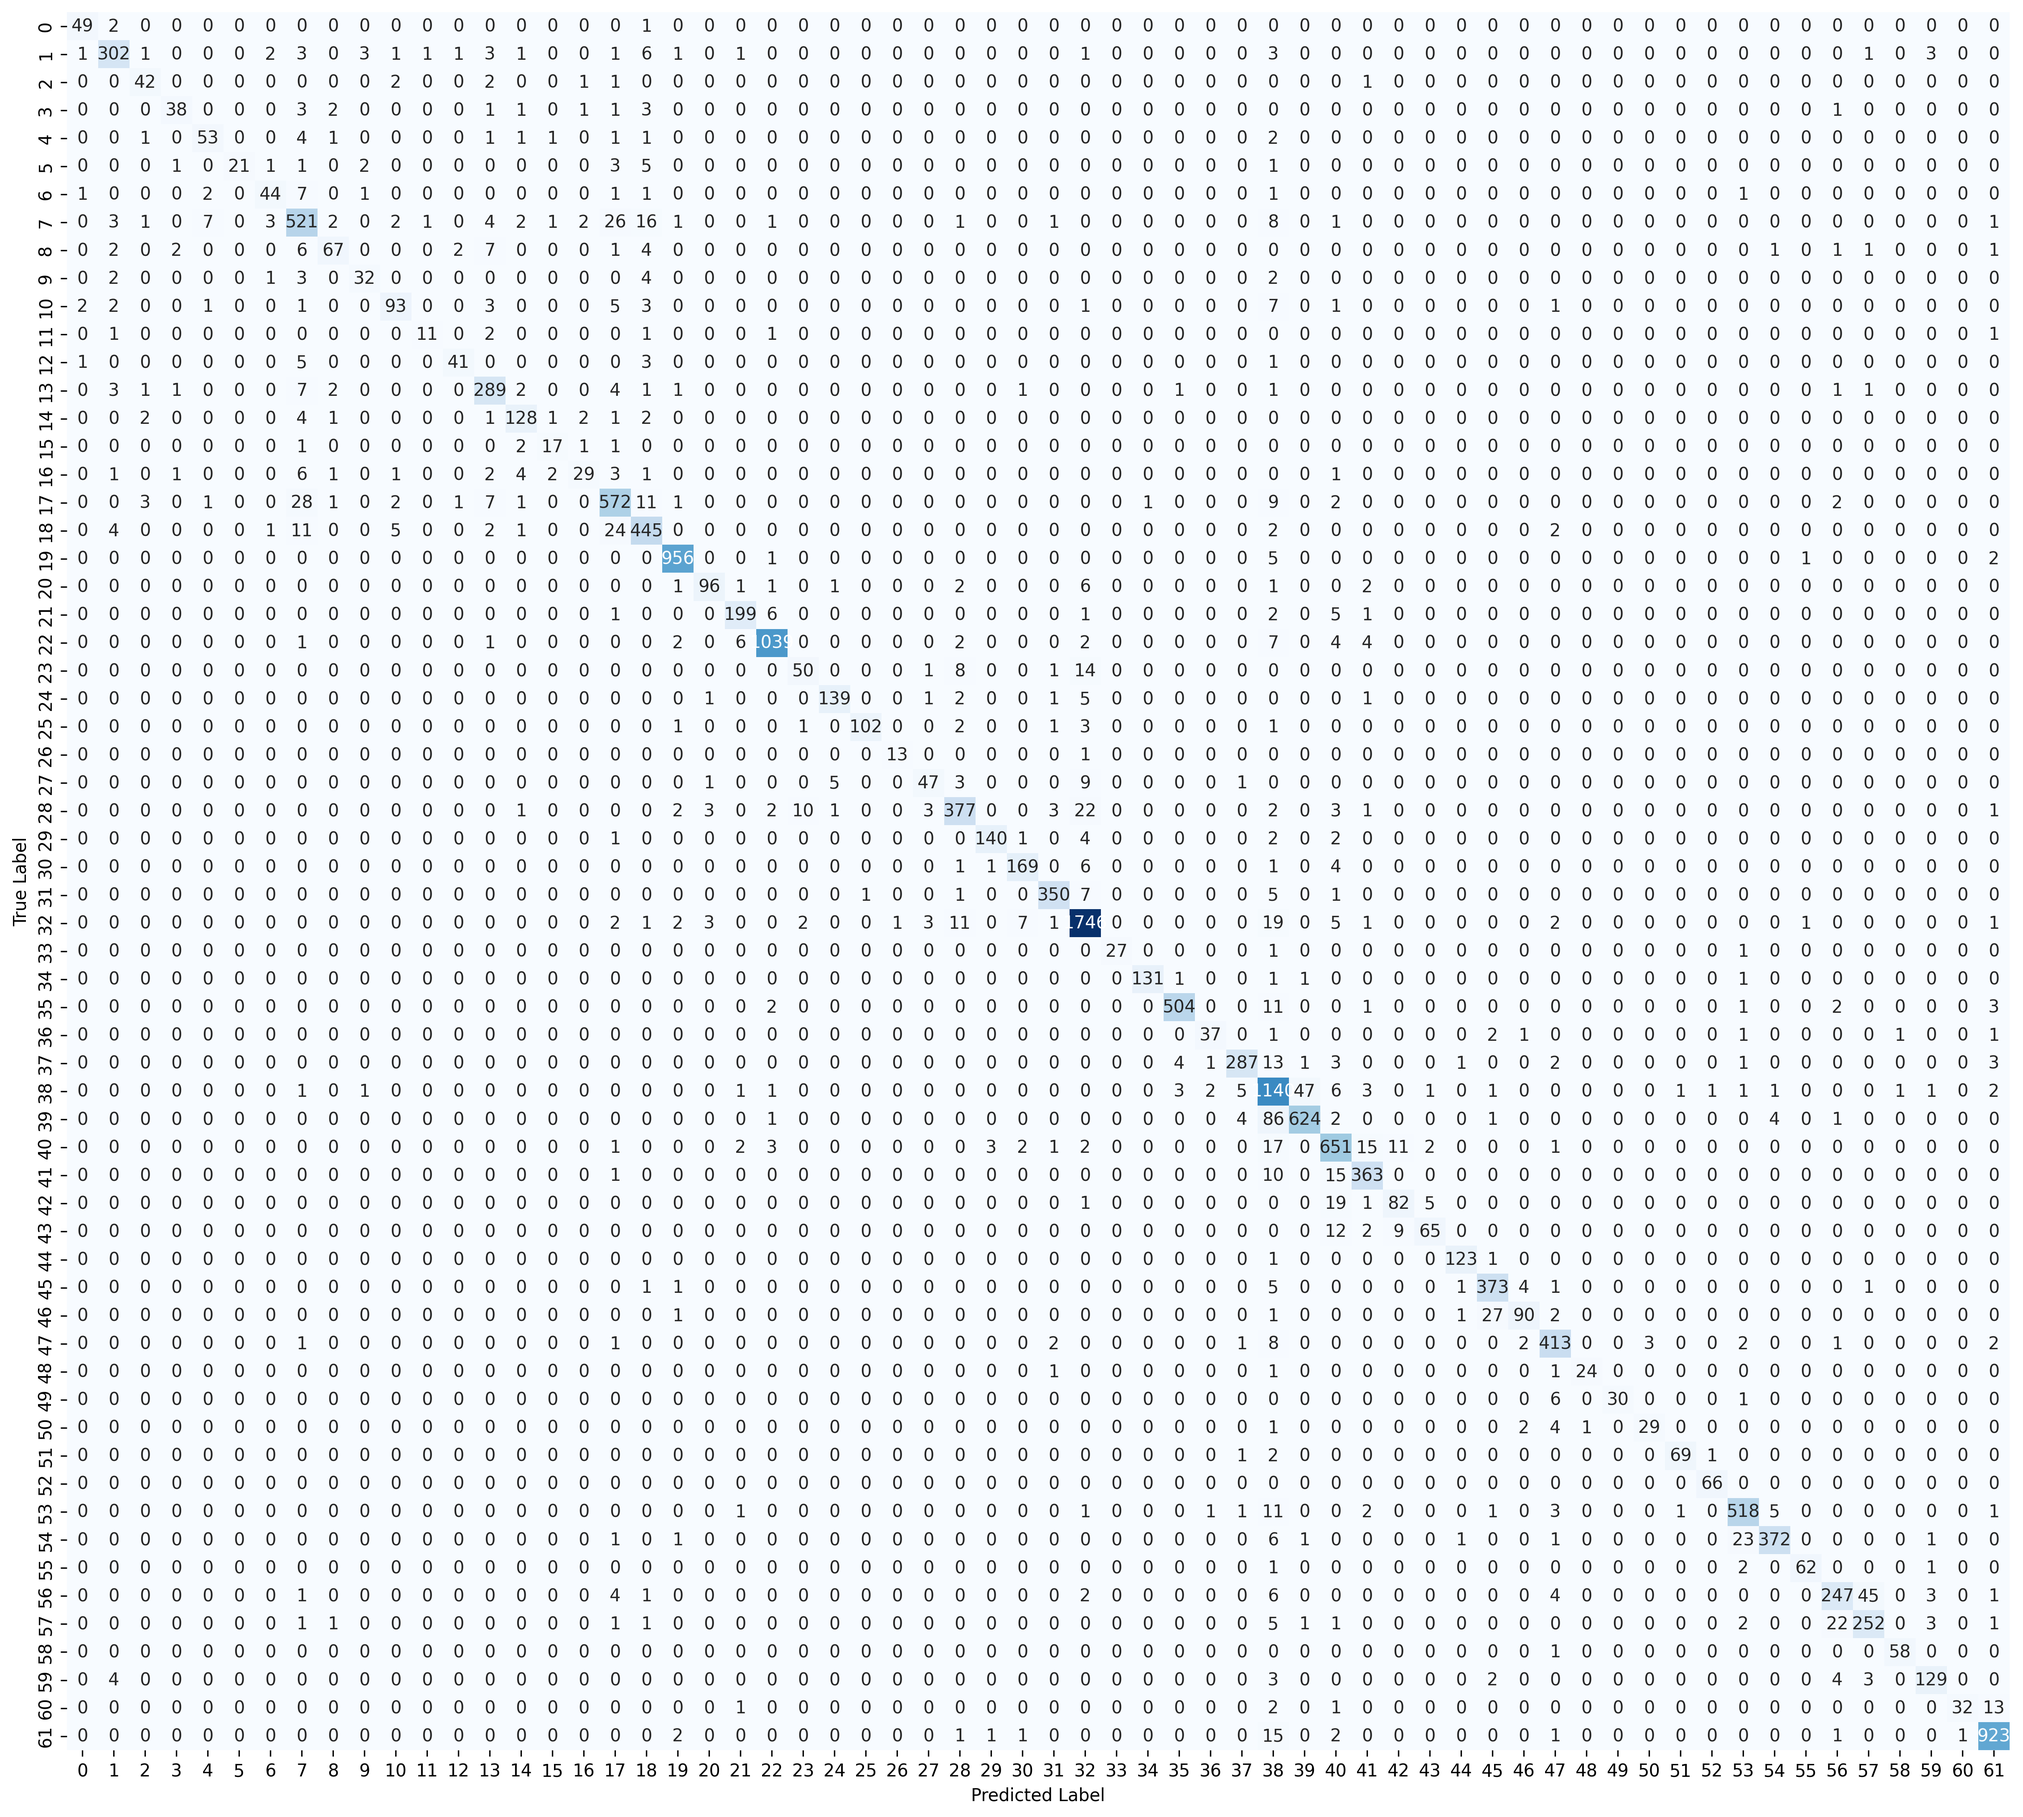
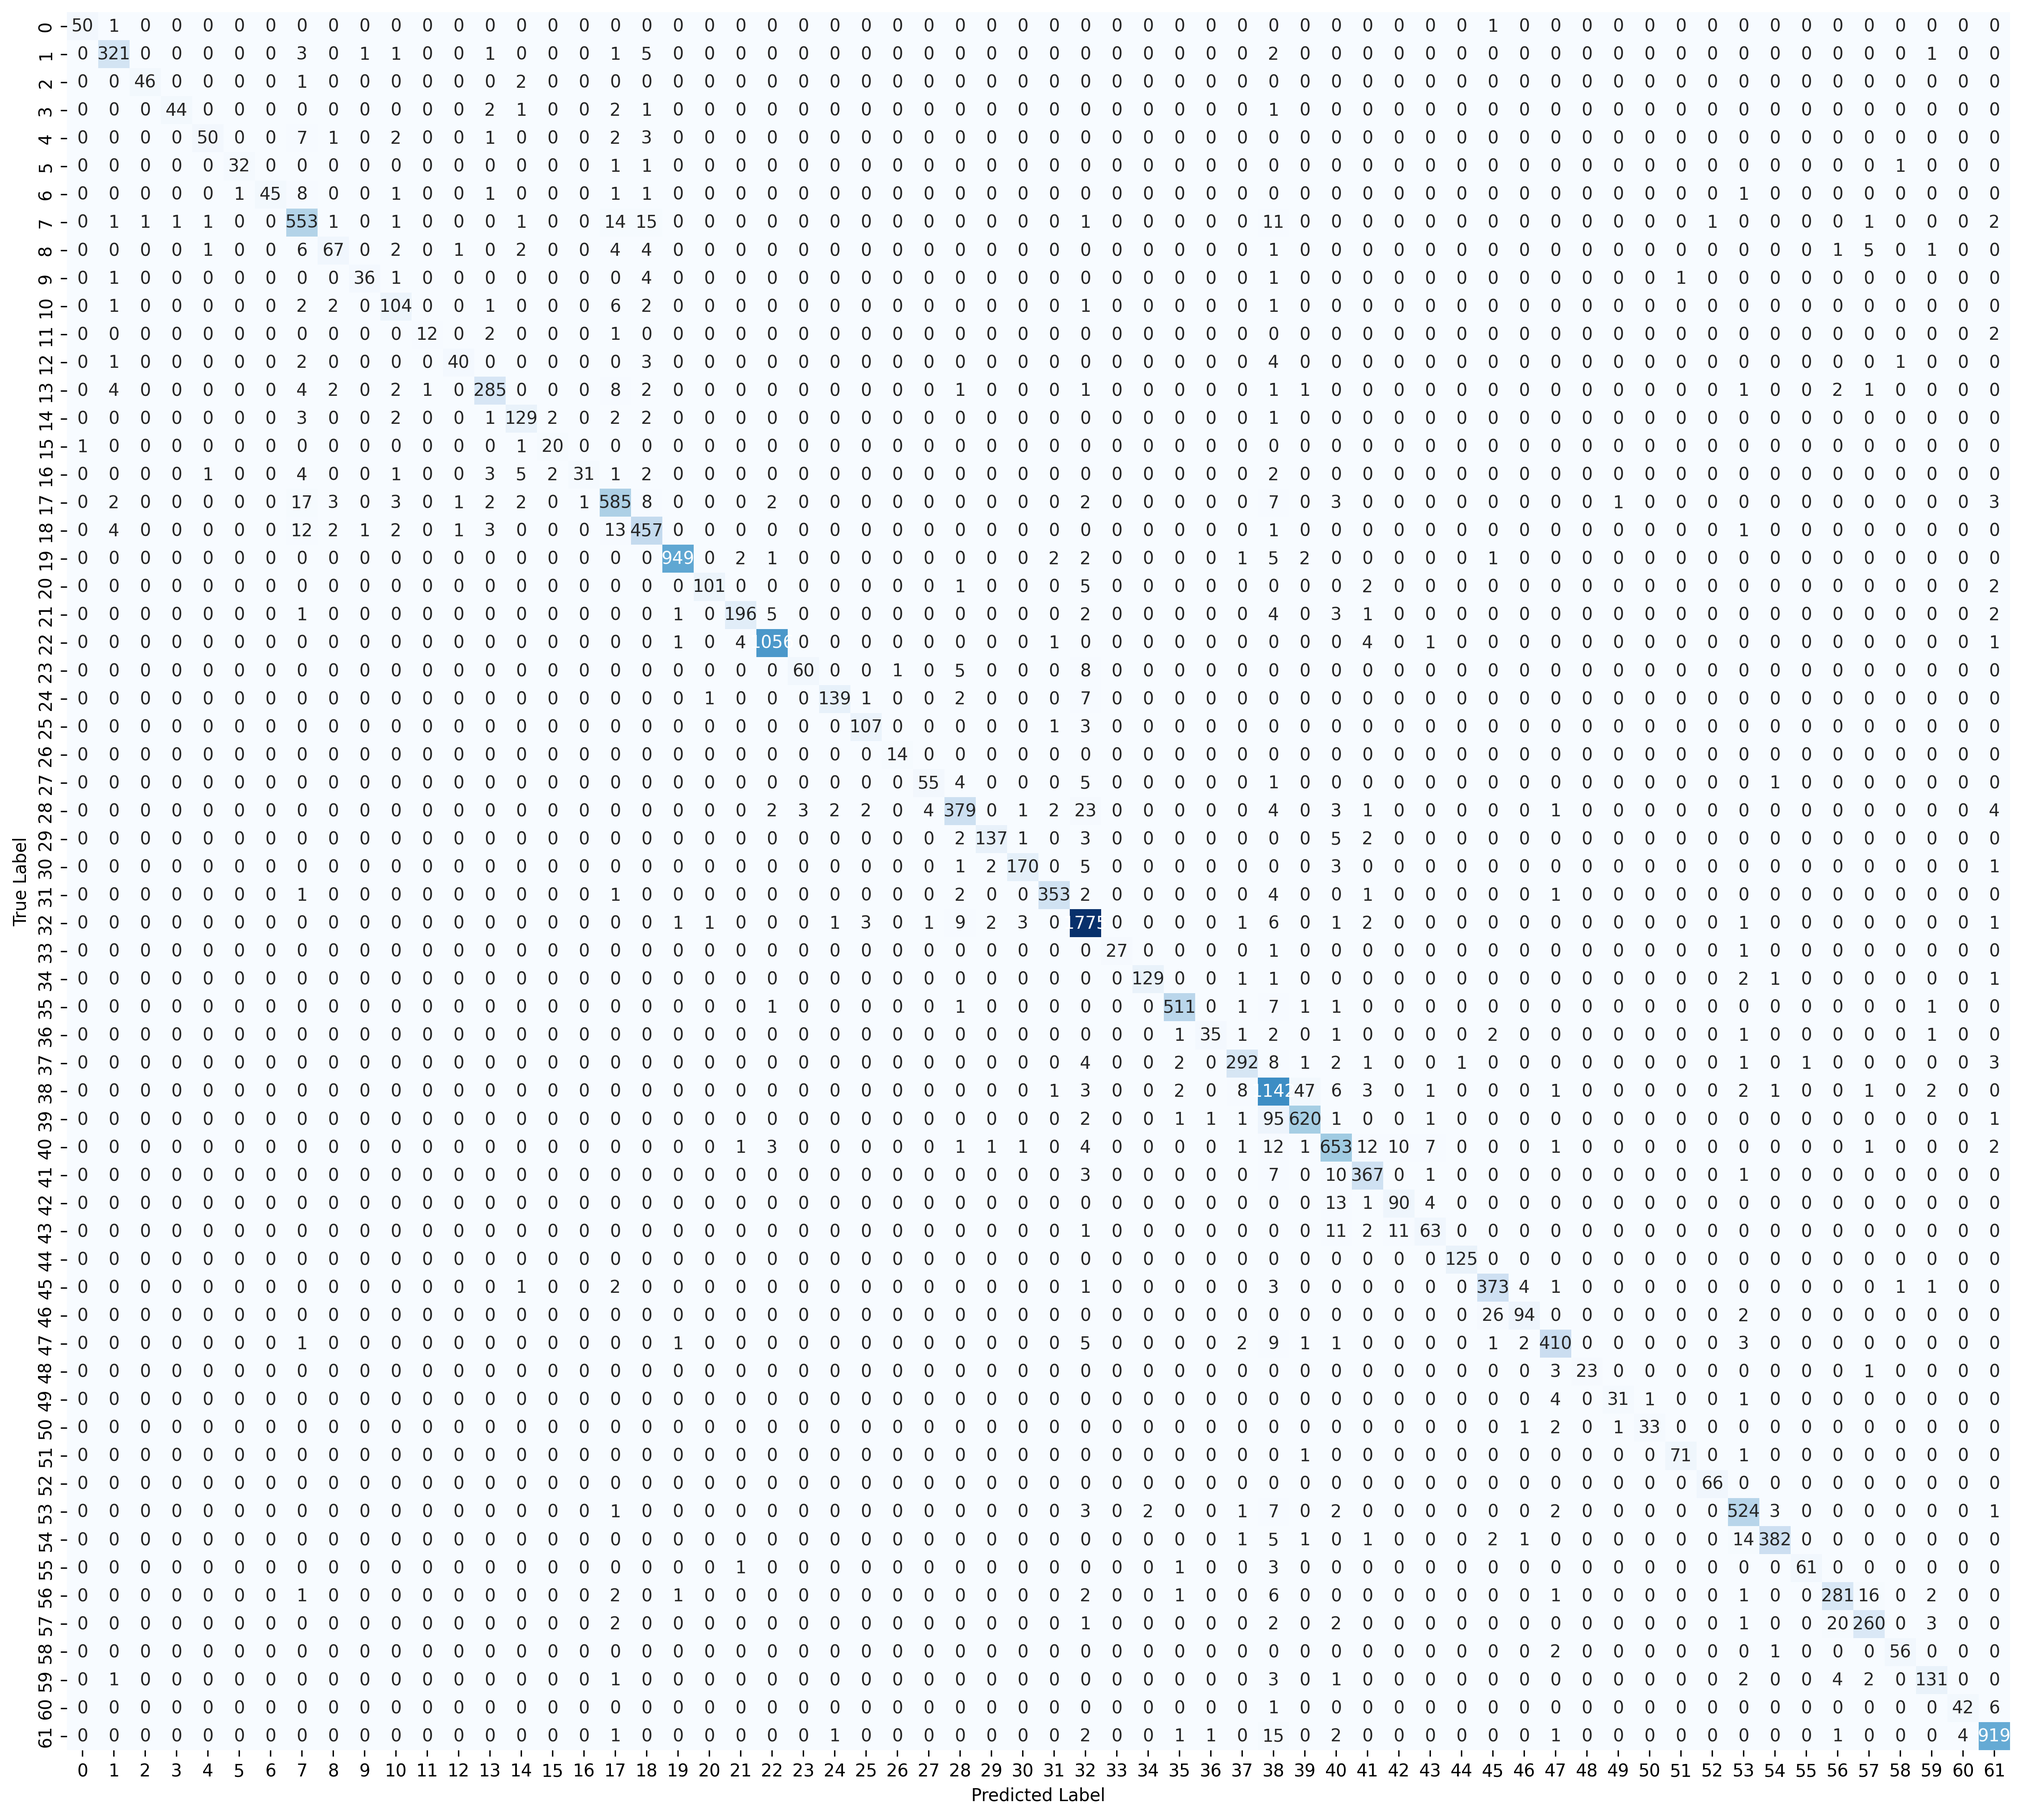
a

diff --git a/Train.py b/Train.py
@@ -45,7 +45,7 @@ def get_args():
 
     parser.add_argument('--picture_size', default=32, type=int)
 
-    parser.add_argument('--early_stop_patience', default=10, type=int)
+    parser.add_argument('--early_stop_patience', default=30, type=int)
     parser.add_argument('--SEED', default=2223, type=int)
     parser.add_argument('--batch_size', default=64, type=int)
     parser.add_argument('--num_epoch', default=130, type=int)
@@ -470,11 +470,11 @@ def load_checkpoint_safely(
 def get_lr(epoch, base_lr=1e-3, min_lr=1e-6):
     if epoch < 5:
         return base_lr * (epoch + 1) / 5
-    elif epoch < 20:
+    elif epoch < 25:
         lr = base_lr
-    elif epoch < 30:
+    elif epoch < 45:
         lr = base_lr * 0.1
-    elif epoch < 40:
+    elif epoch < 60:
         lr = base_lr * 0.01
     else:
         lr = base_lr * 0.001
@@ -825,16 +825,16 @@ if __name__ == "__main__":
 
     args = get_args()
     i=2
-    for j in range(5,10):
+    for j in range(0,3):
         args.__setattr__("model_name", modelname[j])
 
-        args.__setattr__("dataset_name", datasetname[i])
-        args.__setattr__("root_dataset_path", datasetpath[6+i])
+        args.__setattr__("dataset_name", datasetname[1])
+        args.__setattr__("root_dataset_path", datasetpath[7])
         args.__setattr__("batch_size", 64)
         args.__setattr__("img_size", 32)
-        args.__setattr__("num_epoch", 40)
+        args.__setattr__("num_epoch", 75)
         args.__setattr__("lr", 1e-3)
-        args.__setattr__("min_lr", 5e-6)
+        args.__setattr__("min_lr", 1e-6)
 
         args.__setattr__("resume_path",
                          os.path.join(
